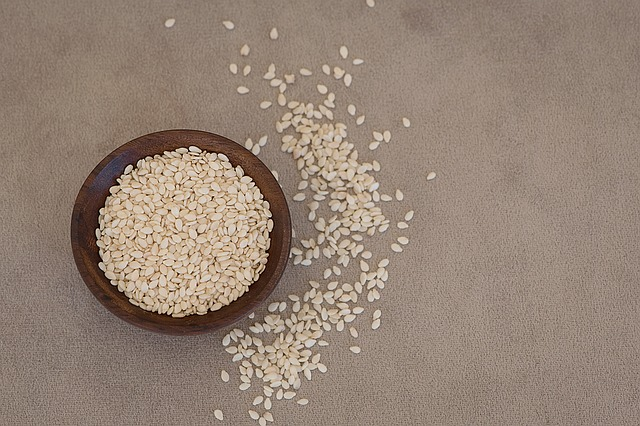
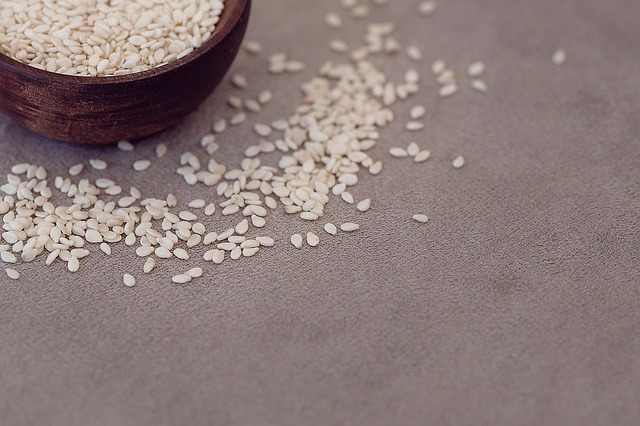
set up sesame seeds product, replaced sesameseeds_3

diff --git a/src/main/java/com/qa/smurf/InitialData.java b/src/main/java/com/qa/smurf/InitialData.java
@@ -339,6 +339,9 @@ public class InitialData {
 
 		products.add(new Product(5, "Lawn Mower", "EWRE-WRFS-SAZ2", "blue", 1072.00, false, "LawnMower", 700,
 				ProductType.TOOL, "Top of the range WORX robotic lawn mower, cuts the lawn so you don't have to. Provides multiple height settings for different lawn heights. Intergated with a 36V lithium-ion battery technology.", 70, 400));
+		
+		products.add(new Product(6, "Sesame Seeds", "SDFF-DFGF-JGG8", "yellow", 3.99, false, "SesameSeeds", 600,
+				ProductType.SEED, "Sesame (Sesamum indicum) is a flowering plant in the genus Sesamum. It is widely naturalized in tropical regions around the world and is cultivated for its edible seeds, which grow in pods.", 60, 700));
 	}
 
 	public ArrayList<Product> getProducts() {
